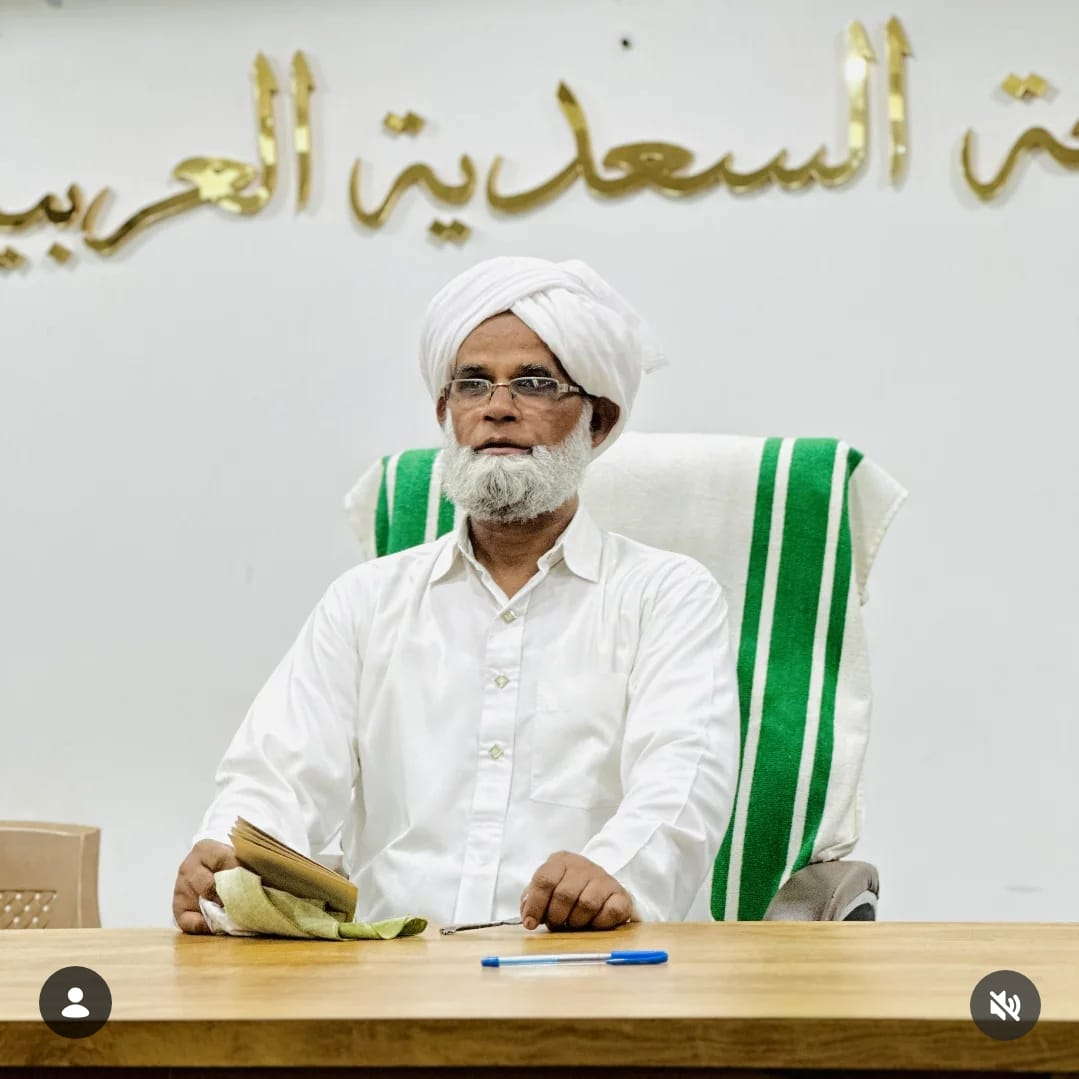
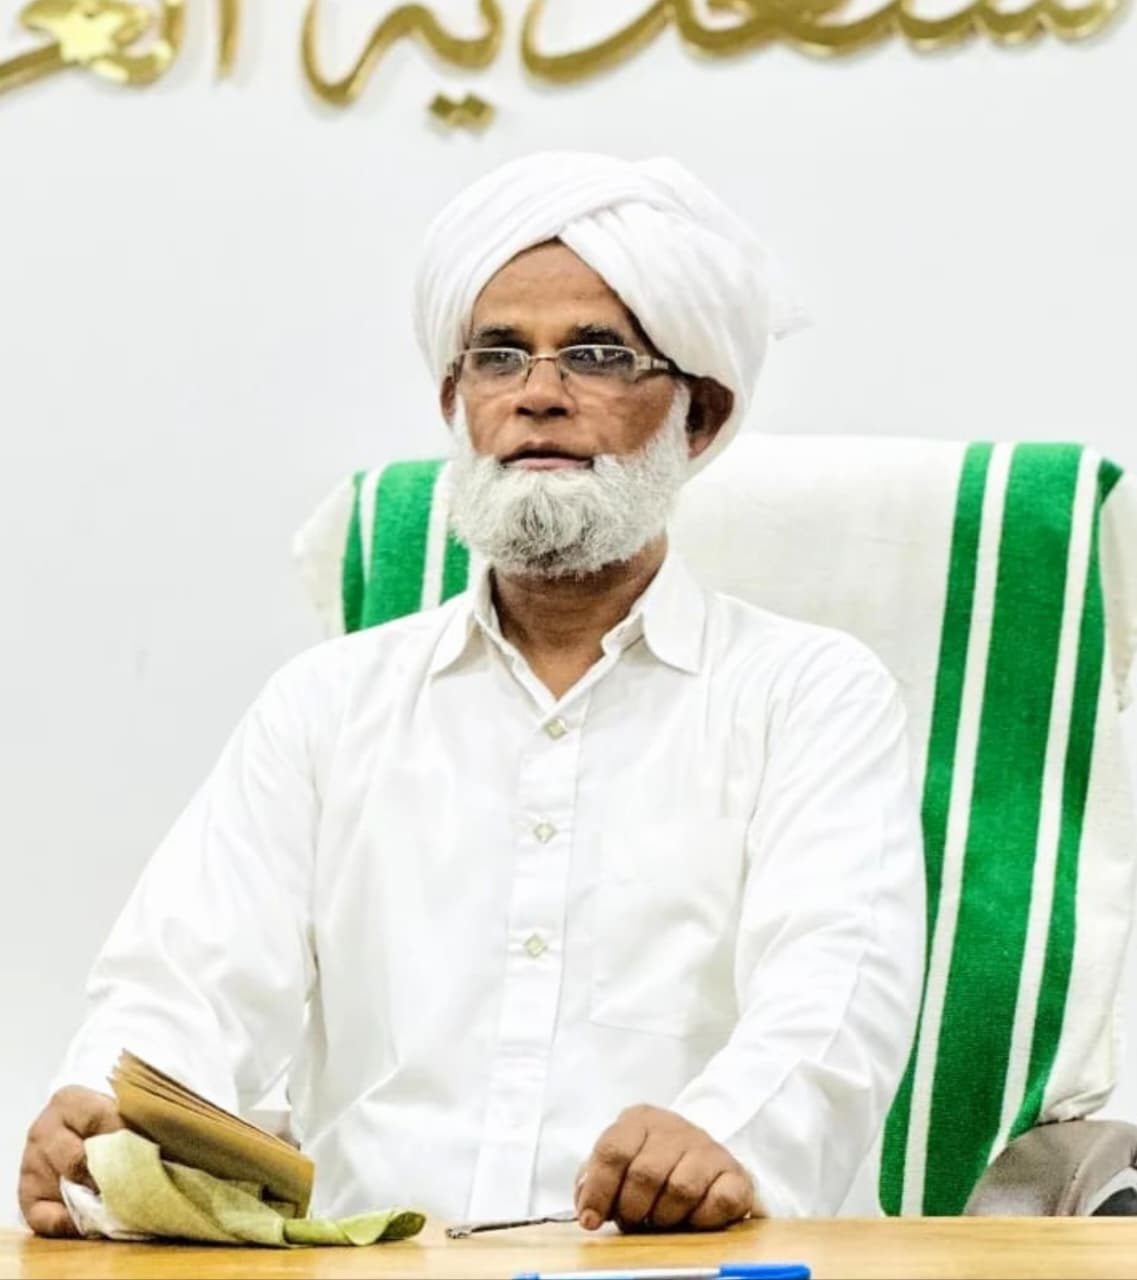
BACKEND ROUTE UPDATED first addes

diff --git a/app/[locale]/faculties/page.tsx b/app/[locale]/faculties/page.tsx
@@ -32,7 +32,11 @@ export default function FacultiesPage({ params }: { params: Promise<{ locale: st
 
       {/* Grid Section */}
       <div className="max-w-7xl mx-auto px-4 sm:px-6 lg:px-8 -mt-10 relative z-20">
-        <div className="grid md:grid-cols-2 gap-8 items-start">
+        {/* 
+          ಇಲ್ಲಿ grid-cols-1 md:grid-cols-2 lg:grid-cols-3 ಬಳಸಲಾಗಿದೆ.
+          ಇದರಿಂದ ಲ್ಯಾಪ್ಟಾಪ್ನಲ್ಲಿ 3 ಕಾರ್ಡ್ಗಳು ಒಂದೇ ಸಾಲಿನಲ್ಲಿ ಬರುತ್ತವೆ.
+        */}
+        <div className="grid grid-cols-1 md:grid-cols-2 lg:grid-cols-3 gap-8 items-start">
           
           {faculties.map((f: any) => {
             const isExpanded = expandedId === f.id
@@ -40,22 +44,29 @@ export default function FacultiesPage({ params }: { params: Promise<{ locale: st
             return (
               <div 
                 key={f.id} 
-                className={`group bg-white rounded-[2rem] overflow-hidden border border-slate-100 transition-all duration-500 flex flex-col sm:flex-row ${
+                // 
+                // ಇಲ್ಲಿ flex-col ಬಳಸಲಾಗಿದೆ. ಇದರಿಂದ ಚಿತ್ರ ಮೇಲೆ ಮತ್ತು ಪಠ್ಯ ಕೆಳಗೆ ಬರುತ್ತದೆ.
+                // 
+                className={`group bg-white rounded-[2rem] overflow-hidden border border-slate-100 transition-all duration-500 flex flex-col ${
                   isExpanded ? 'shadow-[0_20px_50px_rgba(16,185,129,0.15)] border-emerald-200' : 'shadow-[0_8px_30px_rgb(0,0,0,0.06)] hover:shadow-[0_20px_40px_rgba(16,185,129,0.15)] hover:-translate-y-1'
                 }`}
               >
                 
-                {/* Image Container (Avatar placeholder if no image) */}
-                <div className="relative w-full sm:w-[40%] h-64 sm:h-auto overflow-hidden bg-slate-100 shrink-0">
+                {/* 
+                  Image Container 
+                  ಇಲ್ಲಿ h-80 (ಮೊಬೈಲ್) ಮತ್ತು md:h-96 (ಲ್ಯಾಪ್) ನೀಡಲಾಗಿದೆ.
+                  ಇದರಿಂದ ಚಿತ್ರದ ಎತ್ತರ ಸ್ಥಿರವಾಗಿದ್ದು, ಜೂಮ್ ಆಗುವುದಿಲ್ಲ.
+                */}
+                <div className="relative w-full h-80 md:h-96 overflow-hidden bg-slate-100 shrink-0">
                   {f.image ? (
                     <Image
                       src={f.image}
                       alt={locale === 'kn' ? f.nameKn : f.nameEn}
                       fill
-                      className="object-cover object-top group-hover:scale-105 transition-transform duration-700 ease-out"
+                      // object-center ನೀಡಿರುವುದರಿಂದ ಚಿತ್ರದ ಮಧ್ಯಭಾಗ ಸ್ಪಷ್ಟವಾಗಿ ಕಾಣುತ್ತದೆ
+                      className="object-cover object-center group-hover:scale-105 transition-transform duration-700 ease-out"
                     />
                   ) : (
-                    // ಚಿತ್ರವಿಲ್ಲದಿದ್ದಾಗ ಅವರ ಹೆಸರಿನ ಮೊದಲ ಅಕ್ಷರವನ್ನು ತೋರಿಸುವ ಸುಂದರ ವೃತ್ತ
                     <div className="w-full h-full flex items-center justify-center bg-gradient-to-br from-emerald-50 to-blue-50 relative overflow-hidden">
                       <div className="absolute inset-0 bg-[radial-gradient(#10b98110_1px,transparent_1px)] [background-size:16px_16px]"></div>
                       <div className="w-24 h-24 rounded-full bg-white shadow-xl flex items-center justify-center border-4 border-emerald-100 z-10">
@@ -71,17 +82,14 @@ export default function FacultiesPage({ params }: { params: Promise<{ locale: st
                 {/* Content Container */}
                 <div className="p-6 md:p-8 flex-grow flex flex-col relative bg-white">
                   
-                  {/* Tag (ಹುದ್ದೆ) */}
                   <span className="inline-block py-1 px-3 rounded-full bg-emerald-50 border border-emerald-100 text-emerald-700 text-[10px] md:text-xs font-bold tracking-wider uppercase mb-3 w-fit">
-                    {locale === 'kn' ? f.titleKn : f.titleEn}
+                    {locale === 'kn' ? 'ಉಸ್ತಾದ್' : 'USTHAD'}
                   </span>
                   
-                  {/* Name */}
                   <h3 className="font-black text-xl md:text-2xl text-slate-900 mb-3 leading-tight group-hover:text-emerald-600 transition-colors">
                     {locale === 'kn' ? f.nameKn : f.nameEn}
                   </h3>
 
-                  {/* Description (Expand / Collapse) */}
                   <p 
                     className={`text-slate-600 text-sm leading-relaxed text-justify mb-6 flex-grow transition-all duration-500 ${
                       isExpanded ? 'line-clamp-none' : 'line-clamp-3'
@@ -90,23 +98,18 @@ export default function FacultiesPage({ params }: { params: Promise<{ locale: st
                     {locale === 'kn' ? f.descKn : f.descEn}
                   </p>
 
-                  {/* Read More / Read Less Button */}
-                  <div className="mt-auto pt-4 border-t border-slate-100">
+                  <div className="mt-auto pt-4 border-t border-slate-100 flex justify-end">
                     <button
                       onClick={() => toggleReadMore(f.id)}
-                      className="inline-flex items-center justify-center gap-2 text-emerald-600 font-bold text-sm hover:text-emerald-700 transition-colors group/btn focus:outline-none"
+                      className="w-8 h-8 rounded-full bg-emerald-50 flex items-center justify-center text-emerald-600 hover:bg-emerald-100 hover:text-emerald-700 transition-all duration-300 group/btn focus:outline-none"
                     >
-                      {isExpanded 
-                        ? (locale === 'kn' ? 'ಕಡಿಮೆ ಓದಿ' : 'Read Less') 
-                        : (locale === 'kn' ? 'ಇನ್ನಷ್ಟು ಓದಿ' : 'Read More')}
-                      
                       <svg 
                         className={`w-4 h-4 transition-transform duration-300 ${isExpanded ? '-rotate-90' : 'rotate-0'}`} 
                         fill="none" 
                         stroke="currentColor" 
                         viewBox="0 0 24 24"
                       >
-                        <path strokeLinecap="round" strokeLinejoin="round" strokeWidth={2} d="M17 8l4 4m0 0l-4 4m4-4H3" />
+                        <path strokeLinecap="round" strokeLinejoin="round" strokeWidth={2} d="M19 9l-7 7-7-7" />
                       </svg>
                     </button>
                   </div>
